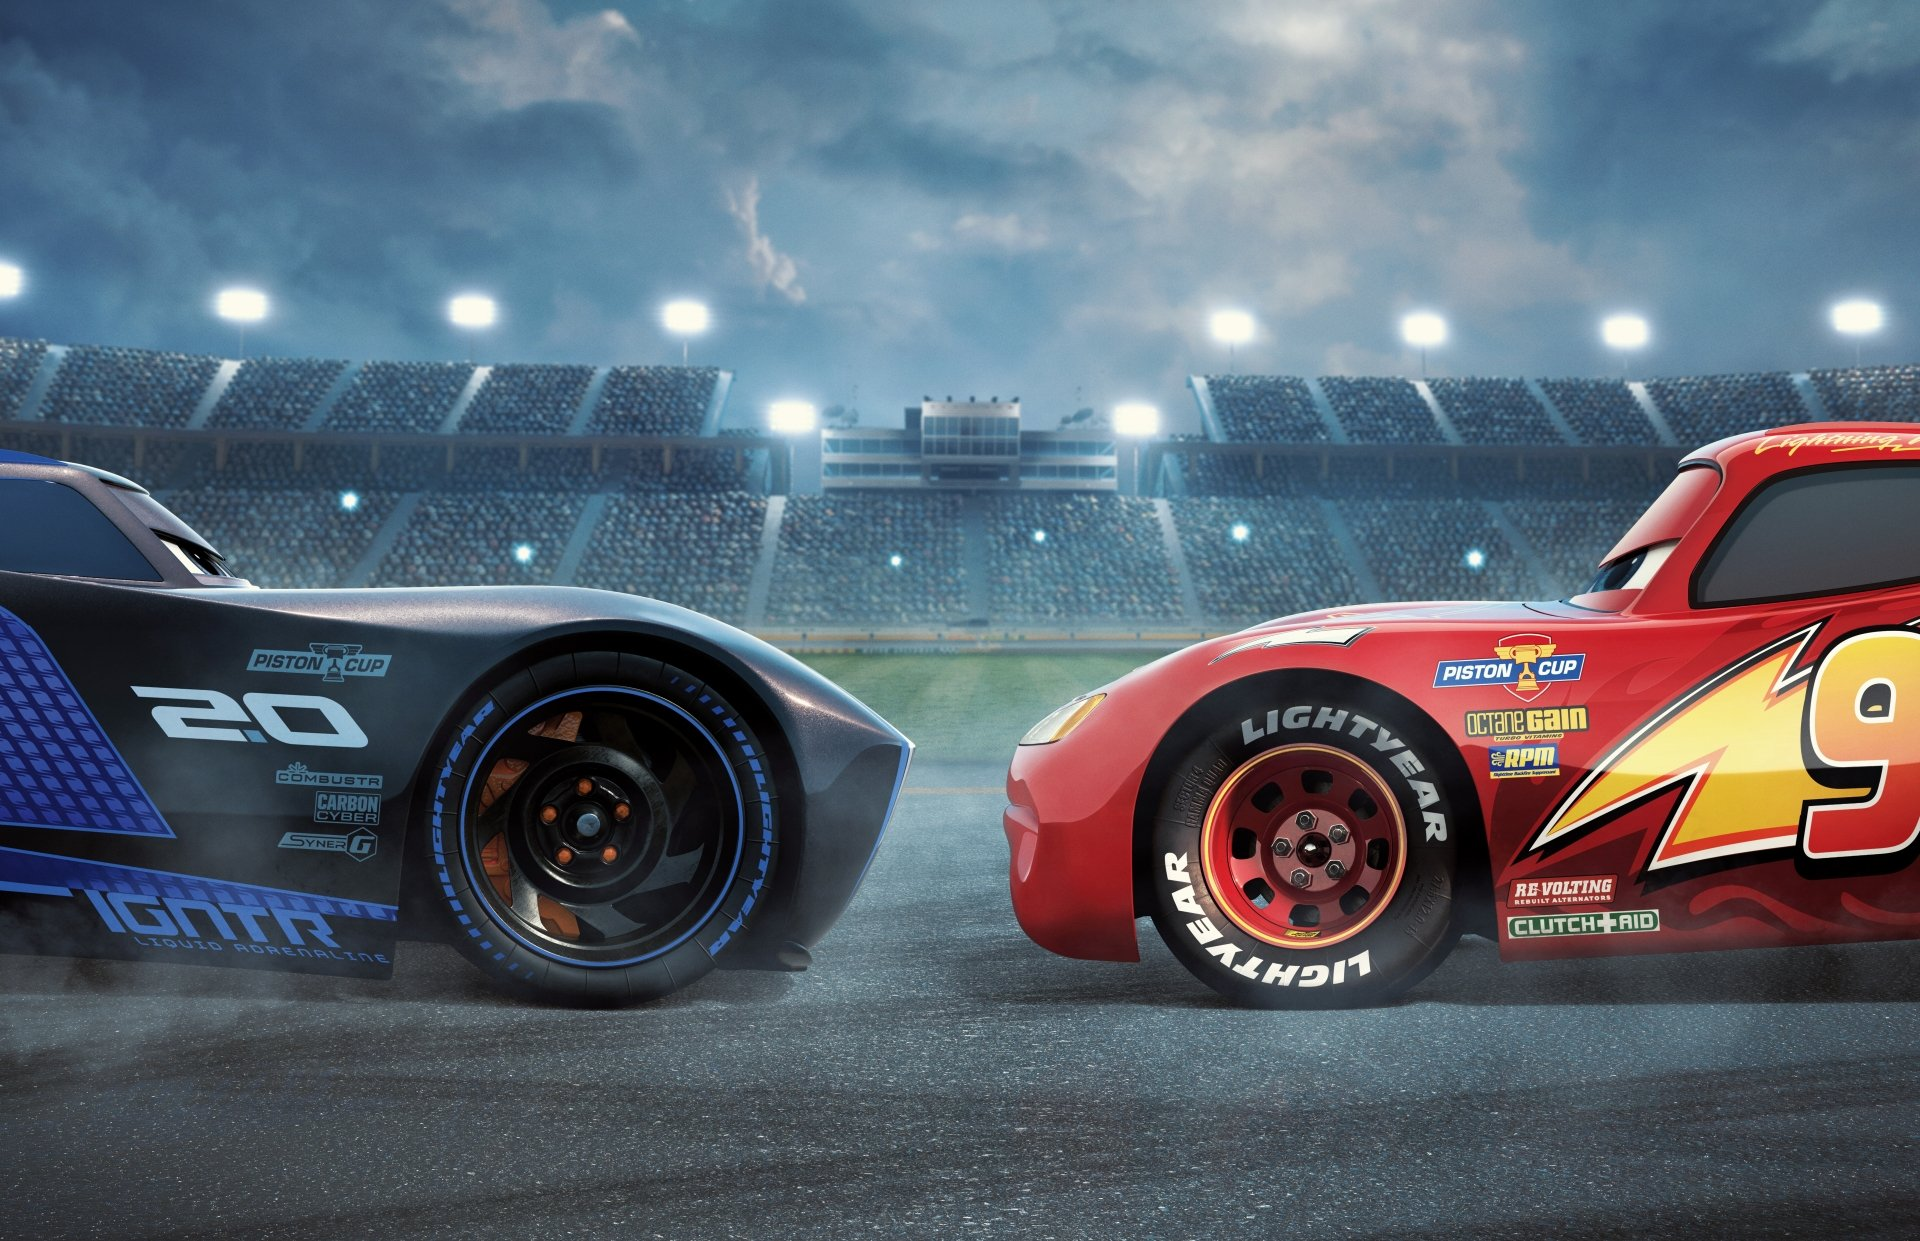
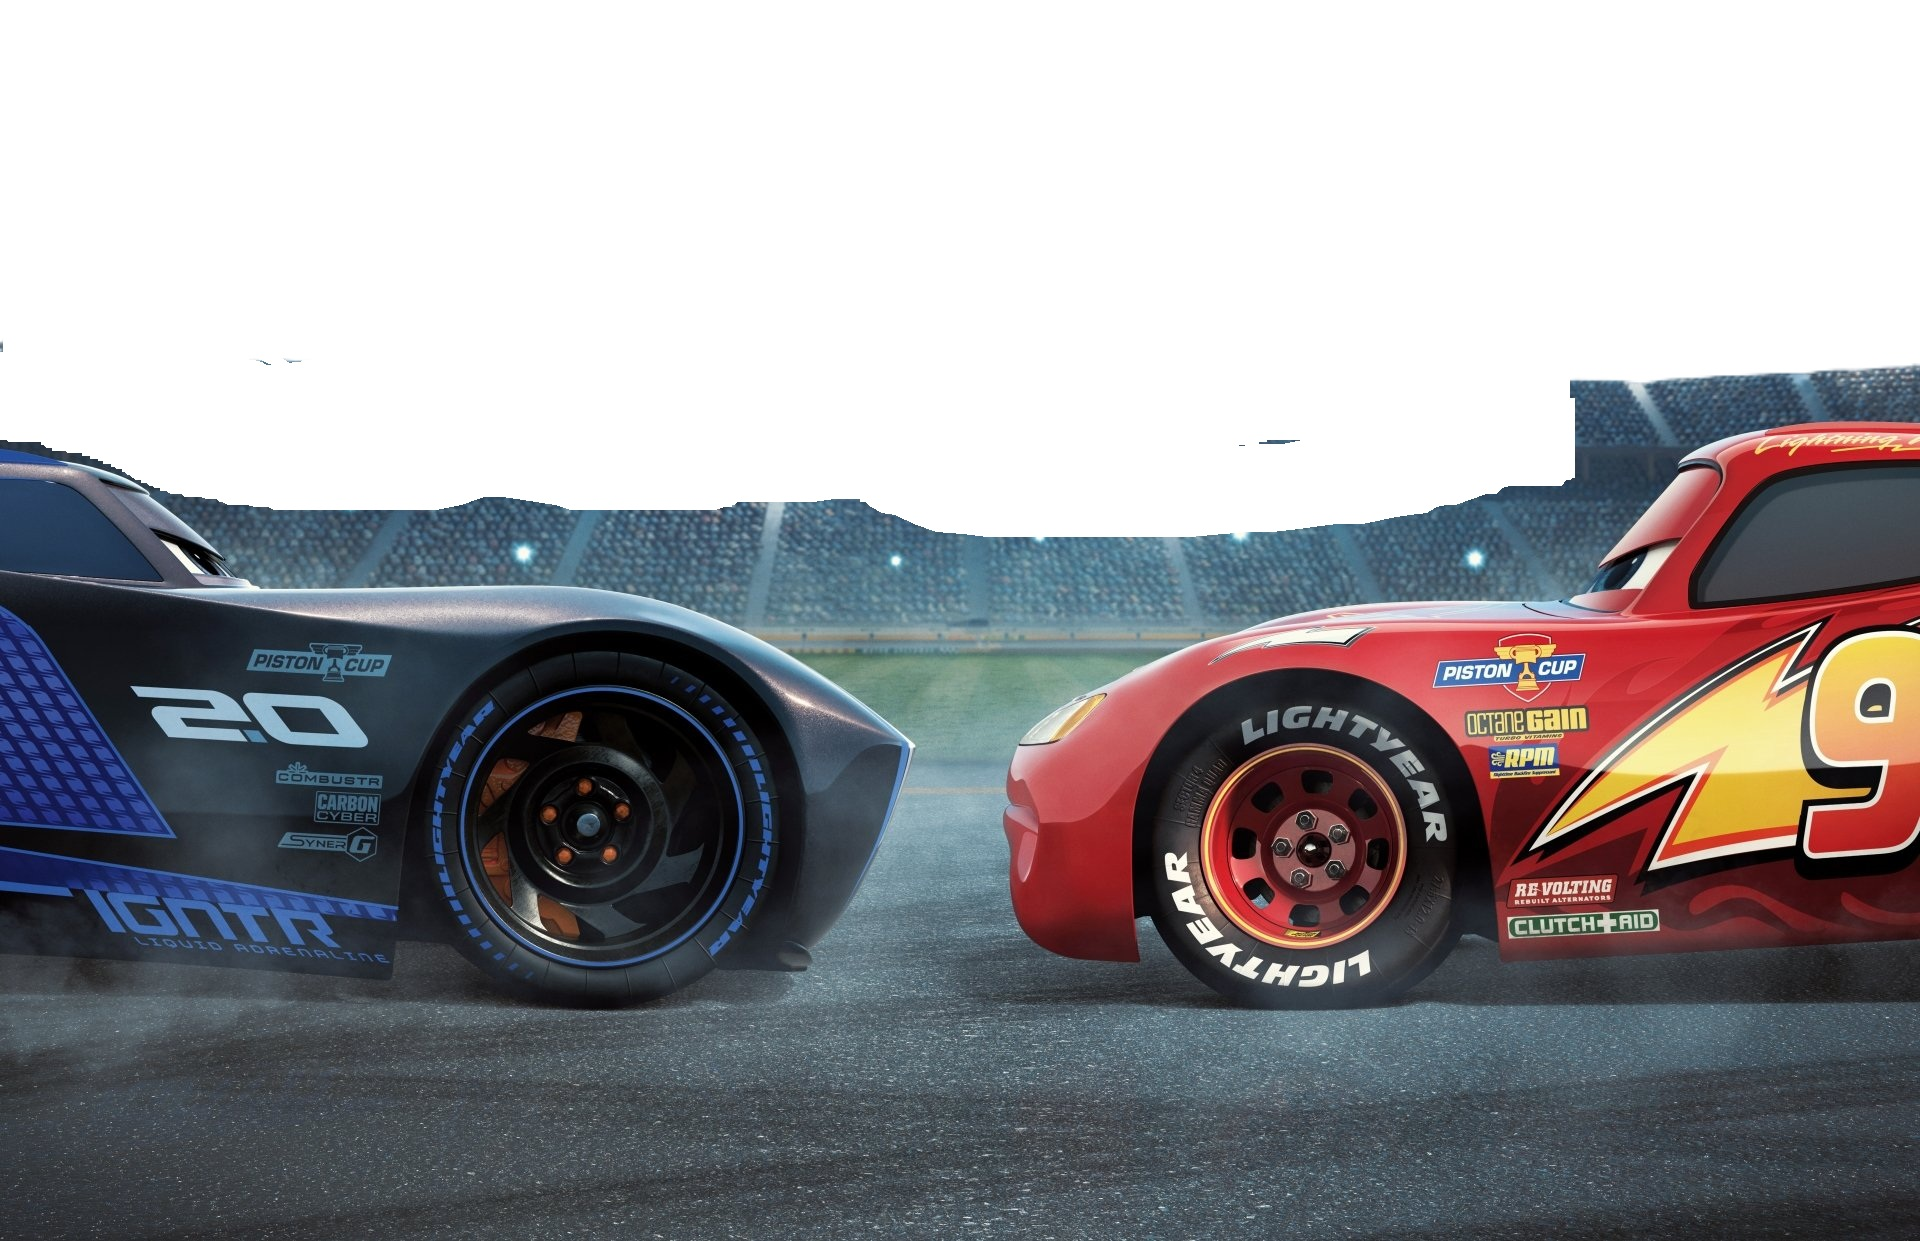
.

diff --git a/index.html b/index.html
@@ -104,12 +104,15 @@
         }
 
         .hero-car {
-            width: 100%;
-            max-width: 300px;
-            margin: 10px auto;
+            display: block;
+            width: 100vw;
+            max-width: 100%;
+            height: auto;
+            margin: 10px auto 0;
             opacity: 0.95; 
             filter: drop-shadow(0px 15px 15px rgba(106, 124, 146, 0.2));
-            animation: float 4s ease-in-out infinite;
+            animation: none;
+            transform: none;
             z-index: 2;
         }
 
@@ -251,12 +254,6 @@
             box-shadow: 0 8px 16px rgba(255, 139, 139, 0.2);
             z-index: 3;
             margin-bottom: -15px;
-        }
-
-        @keyframes float {
-            0% { transform: translateY(0px); }
-            50% { transform: translateY(-12px); }
-            100% { transform: translateY(0px); }
         }
 
         /* Tarjetas */
@@ -792,7 +789,7 @@
         <img src="logo.png" alt="Enrique" class="hero-logo">
         <p class="subtitle">¡Arranquen sus motores!</p>
         
-        <img src="https://www.pngmart.com/files/4/Lightning-McQueen-PNG-Transparent-Image.png" alt="Rayo McQueen" class="hero-car">
+        <img src="mcvsja.png" alt="Rayo McQueen" class="hero-car">
         
         <h2>¡KA-CHOW!</h2>
 
